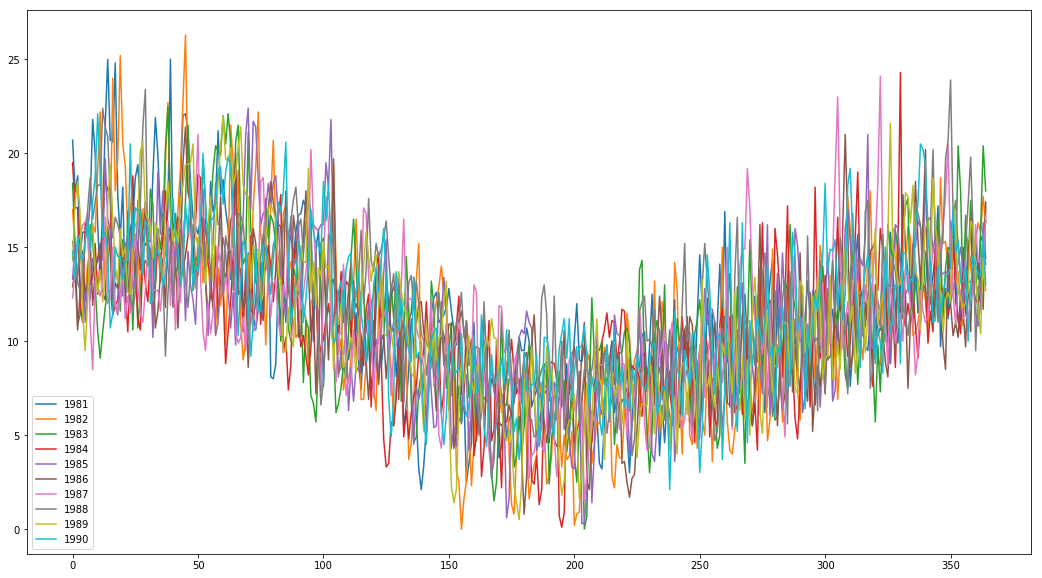
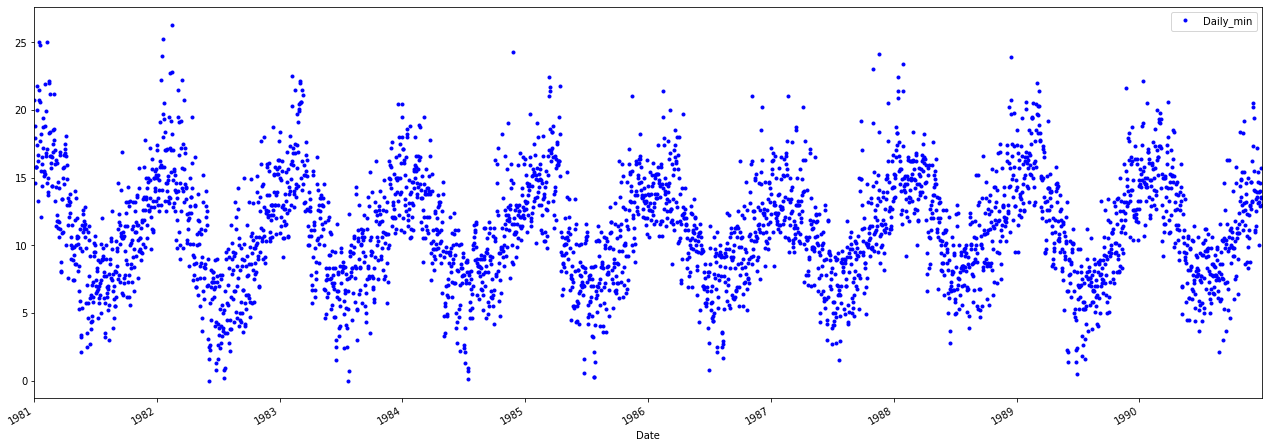
manually create solution cells

diff --git a/README.md b/README.md
@@ -22,18 +22,84 @@ Import the necessary libraries
 
 ```python
 # Load required libraries
+```
 
+
+```python
+# __SOLUTION__
+import warnings
+warnings.filterwarnings('ignore')
+
+# Load required libraries
+import pandas as pd
+from pandas import Series
+import matplotlib.pyplot as plt
 ```
 
 
 ```python
 # Load the data from min_temp.csv and check the index
-
 ```
+
+
+```python
+# __SOLUTION__
+# Load the data from min_temp.csv and check the index
+temp_data = pd.read_csv("min_temp.csv")
+temp_data.index
+```
+
+
+
+
+    RangeIndex(start=0, stop=3650, step=1)
+
+
 
 Check the info. Next, make sure the index is the timestamp.
 
+
+```python
+# Your code here
+```
+
+
+```python
+# __SOLUTION__
+temp_data.info()
+temp_data.Date = pd.to_datetime(temp_data.Date, format='%d/%m/%y')
+temp_data.set_index('Date', inplace = True)
+```
+
+    <class 'pandas.core.frame.DataFrame'>
+    RangeIndex: 3650 entries, 0 to 3649
+    Data columns (total 2 columns):
+    Date         3650 non-null object
+    Daily_min    3650 non-null float64
+    dtypes: float64(1), object(1)
+    memory usage: 57.1+ KB
+
+
 Check the info again
+
+
+```python
+# Your code here
+```
+
+
+```python
+# __SOLUTION__
+temp_data.info()
+```
+
+    <class 'pandas.core.frame.DataFrame'>
+    DatetimeIndex: 3650 entries, 1981-01-01 to 1990-12-31
+    Data columns (total 1 columns):
+    Daily_min    3650 non-null float64
+    dtypes: float64(1)
+    memory usage: 57.0 KB
+
 
 ## Time Series line plot
 
@@ -42,8 +108,19 @@ Create a time series line plot for `temp_data`
 
 ```python
 # Draw a line plot using temp_data 
-
 ```
+
+
+```python
+# __SOLUTION__
+# Draw a line plot using temp_data
+temp_data.plot(figsize = (22,8))
+plt.show()
+```
+
+
+![png](index_files/index_14_0.png)
+
 
 Some distinguishable patterns appear when we plot the data. Here we can see a pattern in our time series i.e. temperature values are maximum at the beginning of each year and minimum at around the 6th month. Yes, we are talking about Australia here so this is normal. This cyclical pattern is known as seasonality and will be covered in later labs. 
 
@@ -53,8 +130,19 @@ For a dense time series, as seen above, you may want to change the style of a li
 
 ```python
 # Use dots instead on a continuous line and redraw the timeseries. 
-
 ```
+
+
+```python
+# __SOLUTION__
+# Use dots instead on a continuous line and redraw the timeseries. 
+temp_data.plot(figsize = (22,8), style = 'b.')
+plt.show()
+```
+
+
+![png](index_files/index_17_0.png)
+
 
 This plot helps us identify clear outliers in certain years!
 
@@ -69,14 +157,41 @@ You'll regroup data per year using `Pandas.grouper()`.
 
 ```python
 # Use pandas grouper to group values using annual frequency
+```
 
+
+```python
+# __SOLUTION__
+# Use pandas grouper to group values using annual frequency
+year_groups = temp_data.groupby(pd.Grouper(freq ='A'))
 ```
 
 
 ```python
 #Create a new DataFrame and store yearly values in columns 
-
 ```
+
+
+```python
+# __SOLUTION__
+#Create a new DataFrame and store yearly values in columns 
+temp_annual = pd.DataFrame()
+```
+
+
+```python
+# __SOLUTION__
+for yr, group in year_groups:
+    temp_annual[yr.year] = group.values.ravel()
+
+# Plot the yearly groups as subplots
+temp_annual.plot(figsize = (22,15), subplots=True, legend=True)
+plt.show()
+```
+
+
+![png](index_files/index_23_0.png)
+
 
 You can see 10 subplots corresponding to the number of columns in your new DataFrame. Each plot is 365 days in length following the annual frequency.
 
@@ -85,8 +200,19 @@ Now, plot the same plots in an overlapping way.
 
 ```python
 # Plot overlapping yearly groups 
-
 ```
+
+
+```python
+# __SOLUTION__
+# Plot overlapping yearly groups 
+temp_annual.plot(figsize = (18,10), subplots=False, legend=True)
+plt.show()
+```
+
+
+![png](index_files/index_26_0.png)
+
 
 We can see in both plots above that due to the dense nature of time-series (365 values) and a high correlation between the values in different years (i.e. similar temperature values for each year), we can not clearly identify any differences in these groups. However, if you try this on the CO2 dataset used in the last lab, you should be able to see a clear trend showing an increase every year. 
 
@@ -97,8 +223,19 @@ Create a histogram for your data.
 
 ```python
 # Plot a histogram of the temperature dataset
-
 ```
+
+
+```python
+# __SOLUTION__
+# Plot a histogram of the temperature dataset
+temp_data.hist(figsize = (12,6))
+plt.show()
+```
+
+
+![png](index_files/index_30_0.png)
+
 
 The plot shows a distribution that looks strongly Gaussian/Normal. The plotting function automatically selects the size of the bins based on the spread of values in the data.
 
@@ -108,8 +245,19 @@ Create a time series density plot
 
 ```python
 # Plot a density plot for temperature dataset
-
 ```
+
+
+```python
+# __SOLUTION__
+# Plot a density plot for temperature dataset
+temp_data.plot(kind='kde', figsize = (12,6))
+plt.show()
+```
+
+
+![png](index_files/index_33_0.png)
+
 
 We can see that the density plot provides a clearer summary of the distribution of observations. We can see that perhaps the distribution is a little asymmetrical and perhaps a little pointy to be Gaussian.
 
@@ -120,8 +268,19 @@ Let's use our groups by years to plot a box and whisker plot for each year for d
 
 ```python
 # Generate a box and whiskers plot for temp_annual dataframe
-
 ```
+
+
+```python
+# __SOLUTION__
+# Generate a box and whiskers plot for temp_annual dataframe
+temp_annual.boxplot(figsize = (15,8))
+plt.show()
+```
+
+
+![png](index_files/index_37_0.png)
+
 
 In our plot above, we don't see much difference in the mean temperature over years, however, we can spot some outliers showing extremely cold or hot days. 
 
@@ -136,15 +295,35 @@ We can also plot distribution across months within each year. Perform the follow
 ```python
 # Use temp Dataset to extract values for 1990
 
-
 # Add each month to dataFrame as a column
-
 
 # Set the column names for each month i.e. 1,2,3, .., 12
 
 # Plot the box and whiskers plot for each month 
-
 ```
+
+
+```python
+# __SOLUTION__
+# Use temp Dataset to extract values for 1990
+yr_1990 = temp_data['1990']
+groups_monthly = yr_1990.groupby(pd.Grouper(freq ='M'))
+
+# Add each month to dataFrame as a column
+months_1990 = pd.concat([pd.DataFrame(x[1].values) for x in groups_monthly], axis=1)
+months_df = pd.DataFrame(months_1990)
+
+# Set the column names for each month i.e. 1,2,3, .., 12
+months_df.columns = range(1,13)
+
+# Plot the box and whiskers plot for each month 
+months_df.boxplot(figsize = (15,10))
+plt.show()
+```
+
+
+![png](index_files/index_41_0.png)
+
 
 We see 12 box and whisker plots, showing the significant change in the distribution of minimum temperatures across the months of the year from the Southern Hemisphere summer in January to the Southern Hemisphere winter in the middle of the year, and back to summer again.
 
@@ -158,9 +337,20 @@ Let's create a heatmap of the Minimum Daily Temperatures data. The `matshow()` f
 
 ```python
 ##### Transpose the yearly group DataFrame and draw a heatmap with matshow()
-
-
 ```
+
+
+```python
+# __SOLUTION__
+##### Transpose the yearly group DataFrame and draw a heatmap with matshow()
+year_matrix = temp_annual.T
+plt.matshow( year_matrix, interpolation=None, aspect='auto', cmap=plt.cm.Spectral_r)
+plt.show()
+```
+
+
+![png](index_files/index_45_0.png)
+
 
 We can now see that the plot shows the cooler minimum temperatures in the middle days of the years and the warmer minimum temperatures in the start and ends of the years, and all the fading and complexity in between.
 
@@ -168,9 +358,20 @@ Following this intuition, let's draw another heatmap comparing the months of the
 
 
 ```python
-# draw a heatmap comparing the months of the year in 1990.
-
+# Draw a heatmap comparing the months of the year in 1990.
 ```
+
+
+```python
+# __SOLUTION__
+# Draw a heatmap comparing the months of the year in 1990.
+plt.matshow(months_df, interpolation=None, aspect='auto', cmap=plt.cm.Spectral_r)
+plt.show()
+```
+
+
+![png](index_files/index_49_0.png)
+
 
 The plot shows the same macro trend seen for each year on the zoomed level of month-to-month. We can also see some white patches at the bottom of the plot. This is missing data for those months that have fewer than 31 days, with February being quite an outlier with 28 days in 1990.
 
